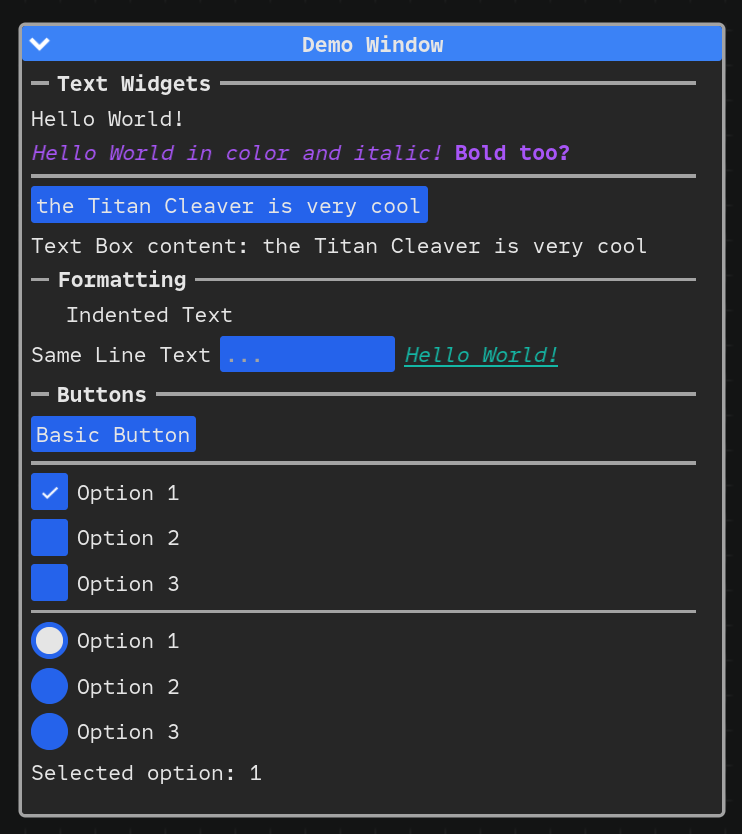
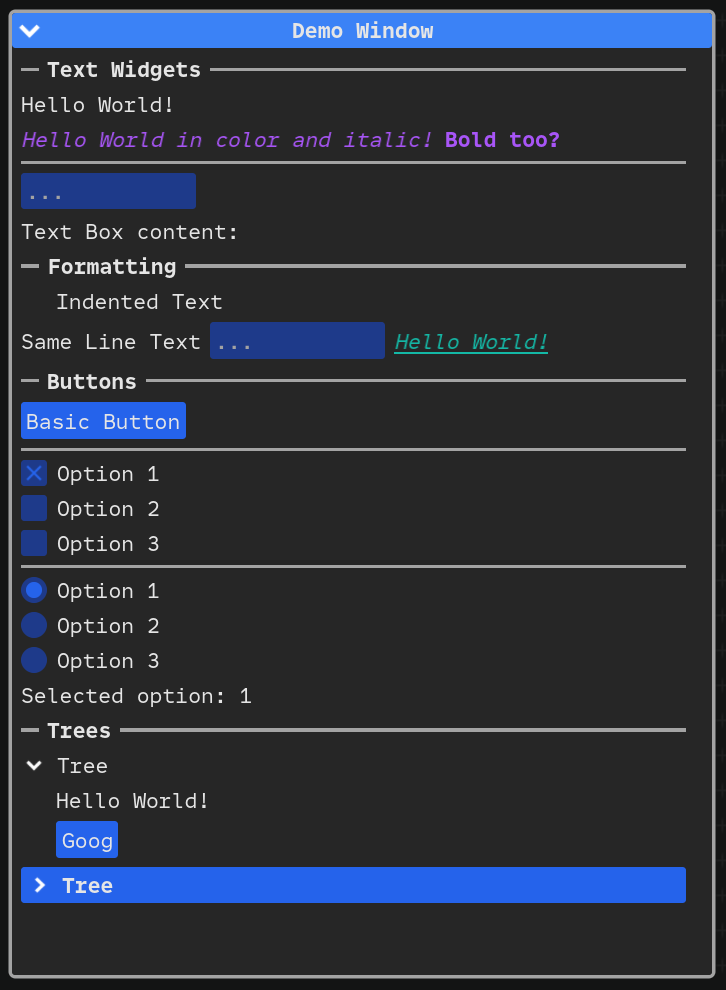
docs: update demo window screenshot

Changed region(s): [[0.0, 0.0, 1.0, 0.9976], [0.2424, 0.7794, 0.2727, 0.8106]]

diff --git a/docs/get-started/3-gallery.md b/docs/get-started/3-gallery.md
@@ -7,4 +7,6 @@ You don't want to jump in with eyes closed just in case Vitre doesn't suit your 
 
 ## Demo Window
 
-![image](../assets/3-1-gallery.png)
+The demo window features every widgets available in Vitre.
+
+<img src="/assets/3-1-gallery.png" width="400" alt="Example image">
